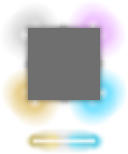
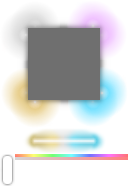
more ui

diff --git a/main.cpp b/main.cpp
@@ -25,11 +25,17 @@ namespace appui {
         ui::spacer pad;
     };
 
+    struct padded_label : padded<ui::label> {
+        padded_label(POINT padding, const ui::text_part& text)
+            : padded<ui::label>{padding, std::vector<ui::text_part>{text}}
+        {}
+    };
+
     // name [-] N [+]
     struct controlled_number {
         controlled_number(ui::grid& grid, size_t row, util::span<const wchar_t> name,
                           size_t min, size_t max, size_t step)
-            : label({15, 15}, std::vector<ui::text_part>{{name, ui::font::loadPermanently<IDI_FONT_SEGOE_UI_BOLD>()}})
+            : label({15, 15}, {name, ui::font::loadPermanently<IDI_FONT_SEGOE_UI_BOLD>()})
             , min(min)
             , max(max)
             , step(step)
@@ -65,7 +71,7 @@ namespace appui {
     protected:
         ui::label decLabel{{{L"\uf068", ui::font::loadPermanently<IDI_FONT_ICONS>()}}};
         ui::label incLabel{{{L"\uf067", ui::font::loadPermanently<IDI_FONT_ICONS>()}}};
-        padded<ui::label> label;
+        padded_label label;
         ui::label numLabel{{}};
         ui::button decButton{decLabel};
         ui::button incButton{incLabel};
@@ -96,6 +102,10 @@ namespace appui {
             setValue(slider.mapValue(min, max, step)); });
     };
 
+    static winapi::com_ptr<ID3D11Texture2D> extraWidgets(ui::dxcontext& ctx) {
+        return ctx.textureFromPNG(ui::read(ui::fromBundled(IDI_SCREENSETUP), L"PNG"));
+    }
+
     struct screensetup : ui::grid {
         screensetup()
             : ui::grid(3, 3)
@@ -113,10 +123,6 @@ namespace appui {
         }
 
     private:
-        static winapi::com_ptr<ID3D11Texture2D> loadTexture(ui::dxcontext& ctx) {
-            return ctx.textureFromPNG(ui::read(ui::fromBundled(IDI_SCREENSETUP), L"PNG"));
-        }
-
         struct fixedAspectRatio : ui::widget {
             POINT measureMinImpl() const override { return {60, 1}; }
             POINT measureImpl(POINT fit) const override {
@@ -130,9 +136,9 @@ namespace appui {
             void drawImpl(ui::dxcontext&, ID3D11Texture2D*, RECT, RECT) const override {}
         } stretchAnyTo0x1, stretchAnyTo0x2;
 
-        ui::image<loadTexture> screen{{  0,   0, 128, 128}, { 64,  64,  64,  64}, stretch16To9};
-        ui::image<loadTexture> stripL{{ 22, 128,  64, 154}, { 44, 142,  44, 142}, stretchAnyTo0x1};
-        ui::image<loadTexture> stripR{{ 64, 128, 106, 154}, { 84, 142,  84, 142}, stretchAnyTo0x2};
+        ui::image<extraWidgets> screen{{  0,   0, 128, 128}, { 64,  64,  64,  64}, stretch16To9};
+        ui::image<extraWidgets> stripL{{ 22, 128,  64, 154}, { 44, 142,  44, 142}, stretchAnyTo0x1};
+        ui::image<extraWidgets> stripR{{ 64, 128, 106, 154}, { 84, 142,  84, 142}, stretchAnyTo0x2};
         ui::grid strip{4, 1};
     };
 
@@ -173,9 +179,8 @@ namespace appui {
     private:
         static constexpr size_t LIMIT = AMBILIGHT_SERIAL_CHUNK * AMBILIGHT_CHUNKS_PER_STRIP;
         screensetup image;
-        padded<ui::label> help{{35, 20},
-            std::vector<ui::text_part>{{L"Tweak the values until you get the pattern shown above.",
-                                        ui::font::loadPermanently<IDI_FONT_SEGOE_UI>(), 22}}};
+        padded_label help{{35, 20}, {L"Tweak the values until you get the pattern shown above.",
+                                     ui::font::loadPermanently<IDI_FONT_SEGOE_UI>(), 22}};
         padded<ui::grid> sliderGrid{{20, 0}, 5, 4};
         padded<ui::grid> bottomRow{{35, 20}, 6, 1};
         // The actual limit is 1 <= w + h <= LIMIT, but sliders jumping around
@@ -186,8 +191,7 @@ namespace appui {
         controlled_number s{bottomRow,  0, L"Serial port",   1, 16,    1};
         // A hacky way to set a constant size for the number labels:
         ui::spacer constNumWidth{{60, 1}};
-        padded<ui::label> doneLabel{{20, 0},
-            std::vector<ui::text_part>{{L"Done", ui::font::loadPermanently<IDI_FONT_SEGOE_UI>()}}};
+        padded_label doneLabel{{20, 0}, {L"Done", ui::font::loadPermanently<IDI_FONT_SEGOE_UI>()}};
         ui::button done{doneLabel.pad};
 
         util::event<size_t>::handle wHandler = w.onChange.add([this](size_t v) { return onChange(0, v); });
@@ -197,18 +201,195 @@ namespace appui {
         util::event<>::handle doneHandler = done.onClick.add([this]{ return onDone(); });
     };
 
+    struct texslider : ui::slider {
+        texslider(RECT track, RECT groove) : track(track), groove(groove) {}
+    private:
+        winapi::com_ptr<ID3D11Texture2D> getTexture(ui::dxcontext& ctx) const override {
+            return ctx.cachedTexture<extraWidgets>(); }
+        RECT getTrack() const override { return track; }
+        RECT getGroove() const override { return groove; }
+        RECT track, groove;
+    };
+
+    struct gray_bg : ui::texrect {
+        using ui::texrect::texrect;
+
+        void setTransparent(bool value) {
+            transparent = value;
+            invalidate();
+        }
+
+    protected:
+        static winapi::com_ptr<ID3D11Texture2D> grayPixel(ui::dxcontext& ctx) {
+            return ctx.textureFromRaw({64, 64, 64, 64, 0, 0, 0, 0}, 2, false); }
+        winapi::com_ptr<ID3D11Texture2D> getTexture(ui::dxcontext& ctx) const override {
+            return ctx.cachedTexture<grayPixel>(); }
+        RECT getOuter() const override { return {transparent, 0, transparent + 1, 1}; }
+        RECT getInner() const override { return {transparent, 0, transparent + 1, 1}; }
+        bool transparent = false;
+    };
+
+    struct h_slider : texslider { h_slider() : texslider({0,154,15,186}, {15,154,128,157}) {} };
+    struct s_slider : texslider { s_slider() : texslider({0,154,15,186}, {15,157,128,160}) {} };
+    struct v_slider : texslider { v_slider() : texslider({0,154,15,186}, {15,160,128,163}) {} };
+
+    struct state {
+        double brightnessV;
+        double brightnessA;
+        double gamma;
+        double dr;
+        double dg;
+        double db;
+        uint32_t color;
+    };
+
+    struct color_config_tab : gray_bg {
+        color_config_tab(const state& init)
+            : gray_bg(grid.pad)
+        {
+            grid.set(0, 0, &gammaLabel.pad);
+            grid.set(0, 1, &rOffLabel.pad);
+            grid.set(0, 2, &gOffLabel.pad);
+            grid.set(0, 3, &bOffLabel.pad);
+            grid.set(1, 0, &gammaSlider.pad);
+            grid.set(1, 1, &rOffSlider.pad);
+            grid.set(1, 2, &gOffSlider.pad);
+            grid.set(1, 3, &bOffSlider.pad);
+            grid.setColStretch(1, 1);
+            gammaSlider.setValue((init.gamma - 1) / 2); // use gamma from 1 to 3
+            rOffSlider.setValue(init.dr);
+            gOffSlider.setValue(init.dg);
+            bOffSlider.setValue(init.db);
+        }
+
+    public:
+        util::event<int, double> onChange;
+
+    private:
+        padded<ui::grid> grid{{10, 20}, 2, 4};
+        padded_label gammaLabel{{10, 10}, {L"\uf042", ui::font::loadPermanently<IDI_FONT_ICONS>()}};
+        padded_label rOffLabel{{10, 10}, {L"R", ui::font::loadPermanently<IDI_FONT_SEGOE_UI_BOLD>()}};
+        padded_label gOffLabel{{10, 10}, {L"G", ui::font::loadPermanently<IDI_FONT_SEGOE_UI_BOLD>()}};
+        padded_label bOffLabel{{10, 10}, {L"B", ui::font::loadPermanently<IDI_FONT_SEGOE_UI_BOLD>()}};
+        padded<ui::slider> gammaSlider{{10, 10}};
+        padded<ui::slider> rOffSlider{{10, 10}};
+        padded<ui::slider> gOffSlider{{10, 10}};
+        padded<ui::slider> bOffSlider{{10, 10}};
+        util::event<double>::handle gammaHandler = gammaSlider.onChange.add([this](double value) { return onChange(0, value * 2 + 1); });
+        util::event<double>::handle rOffHandler = rOffSlider.onChange.add([this](double value) { return onChange(1, value); });
+        util::event<double>::handle gOffHandler = gOffSlider.onChange.add([this](double value) { return onChange(2, value); });
+        util::event<double>::handle bOffHandler = bOffSlider.onChange.add([this](double value) { return onChange(3, value); });
+    };
+
+    struct color_select_tab : gray_bg {
+        color_select_tab(const state& init, util::event<uint32_t>& onChange)
+            : gray_bg(grid.pad)
+            , onChange(onChange)
+        {
+            grid.set(0, 0, &hueLabel.pad, ui::grid::align_end);
+            grid.set(1, 0, &hueSlider.pad);
+            grid.set(0, 1, &satLabel.pad, ui::grid::align_end);
+            grid.set(1, 1, &satSlider.pad);
+            grid.setColStretch(1, 1);
+            // TODO convert color to HSV & set sliders
+        }
+
+        bool emitEvent() {
+            // TODO convert values to RGB & emit onChange
+            return onChange(0x00000000u);
+        }
+
+    private:
+        util::event<uint32_t>& onChange;
+        padded<ui::grid> grid{{10, 20}, 2, 2};
+        padded_label hueLabel{{10, 10}, {L"Hue", ui::font::loadPermanently<IDI_FONT_SEGOE_UI_BOLD>()}};
+        padded_label satLabel{{10, 10}, {L"Saturation", ui::font::loadPermanently<IDI_FONT_SEGOE_UI_BOLD>()}};
+        padded<h_slider> hueSlider{{10, 10}};
+        padded<s_slider> satSlider{{10, 10}};
+        util::event<double>::handle hueHandler = hueSlider.onChange.add([this](double) { return emitEvent(); });
+        util::event<double>::handle satHandler = satSlider.onChange.add([this](double) { return emitEvent(); });
+    };
+
+    struct extra_button : gray_bg {
+        extra_button(const ui::text_part& text)
+            : gray_bg(button)
+            , label({text})
+        {
+            pad.set(0, 0, &label);
+            pad.setColStretch(0, 1);
+            pad.setRowStretch(0, 1);
+            button.setBorderless(true);
+            setTransparent(true);
+        }
+
+        bool setState(bool value) {
+            state = value;
+            setTransparent(!state);
+            return onClick(state);
+        }
+
+    public:
+        util::event<bool> onClick;
+
+    private:
+        bool state = false;
+        ui::label label;
+        ui::grid pad{1, 1};
+        ui::button button{pad};
+        util::event<>::handle h = button.onClick.add([this] { return setState(!state); });
+    };
+
+    struct extra_tabs : ui::grid {
+        extra_tabs(const state& init)
+            : ui::grid(1, 3)
+            , gammaTab(init)
+            , colorTab(init, onColor)
+        {
+            if (init.color >> 24)
+                colorButton.setState(true);
+            buttons.set(0, 0, &gammaButton);
+            buttons.set(1, 0, &colorButton);
+            buttons.setColStretch(0, 1);
+            buttons.setColStretch(1, 1);
+            set(0, 2, &buttons);
+            setColStretch(0, 1);
+        }
+
+    public:
+        util::event<int, double> onGamma;
+        util::event<uint32_t> onColor;
+
+    private:
+        color_config_tab gammaTab;
+        color_select_tab colorTab;
+
+        ui::grid buttons{2, 1};
+        extra_button gammaButton{{L"\uf0d0", ui::font::loadPermanently<IDI_FONT_ICONS>()}};
+        extra_button colorButton{{L"\uf043", ui::font::loadPermanently<IDI_FONT_ICONS>()}};
+        util::event<bool>::handle gammaH = gammaButton.onClick.add([this](bool show) {
+            set(0, 0, show ? &gammaTab : nullptr); });
+        util::event<bool>::handle colorH = colorButton.onClick.add([this](bool show) {
+            set(0, 1, show ? &colorTab : nullptr);
+            return colorTab.emitEvent(); });
+    };
+
     // +------------------------------+
     // | B -----|-------------------- |    (pretend those letters are icons signifying
     // | M -----|-------------------- |     Brightness, Music, Settings, and Quit)
     // |                      [S] [Q] |
-    // +------------------------------+    TODO static colors, gamma, color offsets, etc.
+    // +------------------------------+
     struct tooltip_config : ui::grid {
-        tooltip_config(double bv, double ba)
+        tooltip_config(const state& init)
             : ui::grid(1, 2)
+            , extraTabs(init)
         {
-            set(0, 0, &brightnessGrid);
-            set(0, 1, &bottomRow);
+            set(0, 0, &extraTabs);
+            set(0, 1, &onTransparent.pad);
             setColStretch(0, 1);
+
+            onTransparent.set(0, 0, &brightnessGrid);
+            onTransparent.set(0, 1, &bottomRow);
+            onTransparent.setColStretch(0, 1);
             brightnessGrid.set(0, 0, &bLabel.pad);
             brightnessGrid.set(1, 0, &bSlider.pad);
             brightnessGrid.set(0, 1, &mLabel.pad);
@@ -218,8 +399,8 @@ namespace appui {
             bottomRow.set(1, 0, &sButton.pad);
             bottomRow.set(2, 0, &qButton.pad);
             bottomRow.setColStretch(0, 1);
-            bSlider.setValue(bv);
-            mSlider.setValue(ba);
+            bSlider.setValue(init.brightnessV);
+            mSlider.setValue(init.brightnessA);
             sButton.setBorderless(true);
             qButton.setBorderless(true);
         }
@@ -234,13 +415,14 @@ namespace appui {
         util::event<> onQuit;
 
     private:
+        extra_tabs extraTabs;
+
+        padded<ui::grid> onTransparent{{10, 20}, 1, 3};
         padded<ui::grid> brightnessGrid{{10, 0}, 2, 2};
-        padded<ui::label> bLabel{{10, 10},
-            std::vector<ui::text_part>{{L"\uf185", ui::font::loadPermanently<IDI_FONT_ICONS>()}}};
-        padded<ui::label> mLabel{{10, 10},
-            std::vector<ui::text_part>{{L"\uf001", ui::font::loadPermanently<IDI_FONT_ICONS>()}}};
-        padded<ui::slider> bSlider{{10, 10}};
-        padded<ui::slider> mSlider{{10, 10}};
+        padded_label bLabel{{10, 10}, {L"\uf185", ui::font::loadPermanently<IDI_FONT_ICONS>()}};
+        padded_label mLabel{{10, 10}, {L"\uf001", ui::font::loadPermanently<IDI_FONT_ICONS>()}};
+        padded<v_slider> bSlider{{10, 10}};
+        padded<v_slider> mSlider{{10, 10}};
 
         padded<ui::grid> bottomRow{{10, 0}, 3, 1};
         padded<ui::label> statusText{{10, 10}};
@@ -260,10 +442,14 @@ int ui::main() {
     ui::window mainWindow{1, 1};
     mainWindow.onDestroy.add([&] { ui::quit(); }).release();
 
+    const appui::state fake = {
+        0.7, 0.4, 2.0, 1.0, 1.0, 1.0, 0x00000000u
+    };
+
     std::unique_ptr<ui::window> sizingWindow;
     std::unique_ptr<ui::window> tooltipWindow;
     appui::padded<appui::sizing_config> sizingConfig{{20, 20}, 72, 40, 76, 3};
-    appui::padded<appui::tooltip_config> tooltipConfig{{10, 20}, 0.7, 0.4};
+    appui::tooltip_config tooltipConfig{fake};
 
     sizingConfig.onDone.add([&] {
         if (sizingWindow)
@@ -312,7 +498,7 @@ int ui::main() {
         tooltipWindow->setBackground(0xa0000000u, true);
         tooltipWindow->setDragByEmptyAreas(false);
         tooltipWindow->setGravity(hGravity, vGravity);
-        tooltipWindow->setRoot(&tooltipConfig.pad);
+        tooltipWindow->setRoot(&tooltipConfig);
         tooltipWindow->setTopmost(true);
         tooltipWindow->show();
     }).release();
